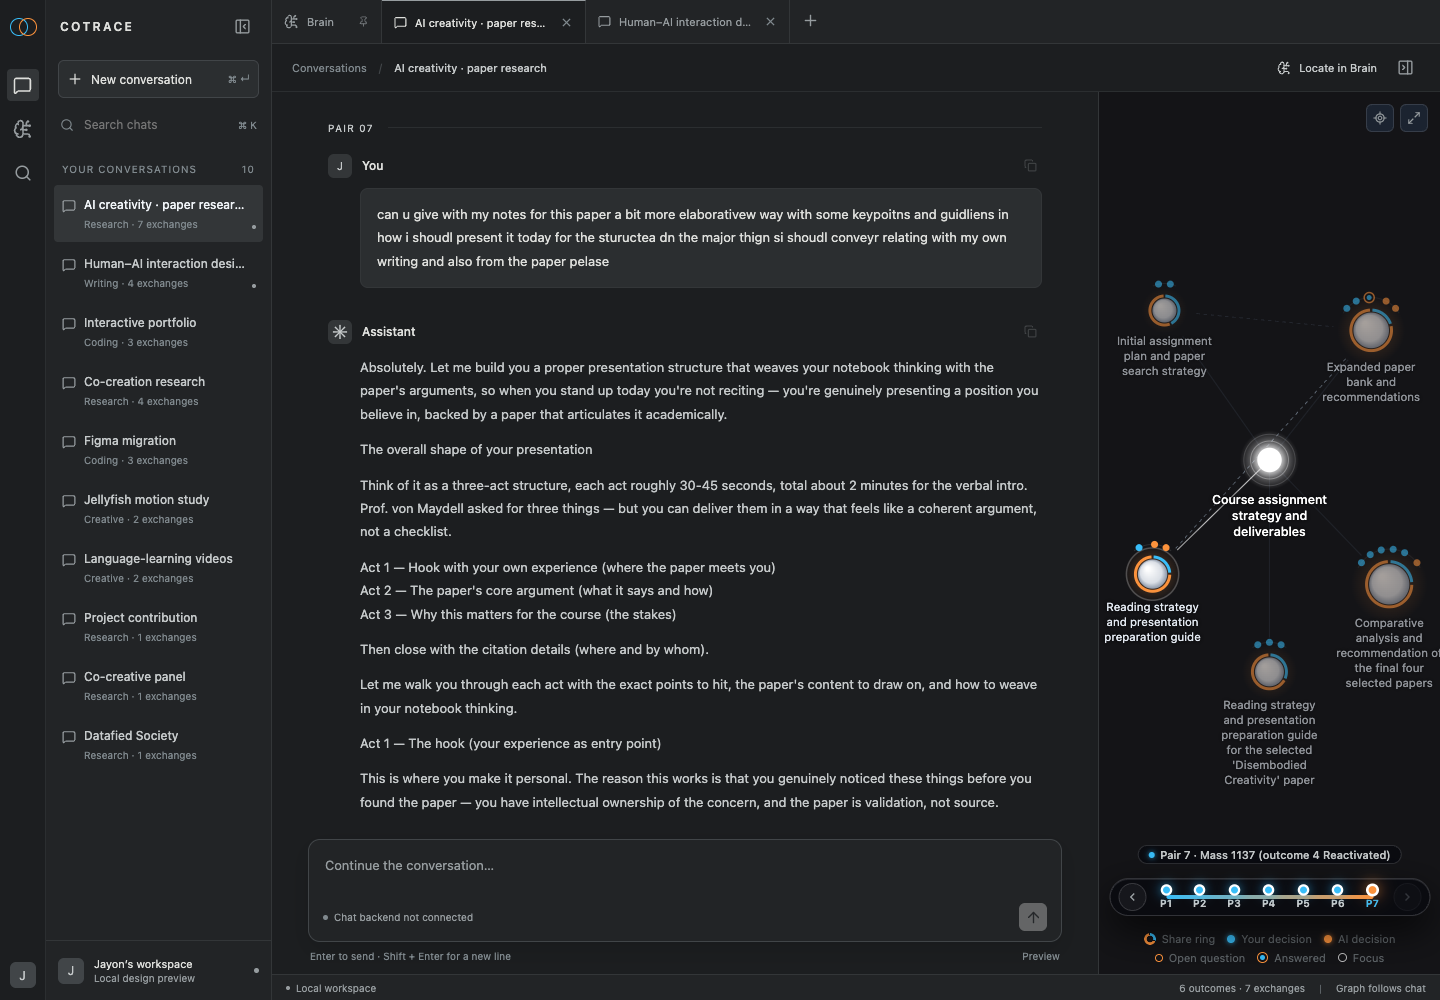
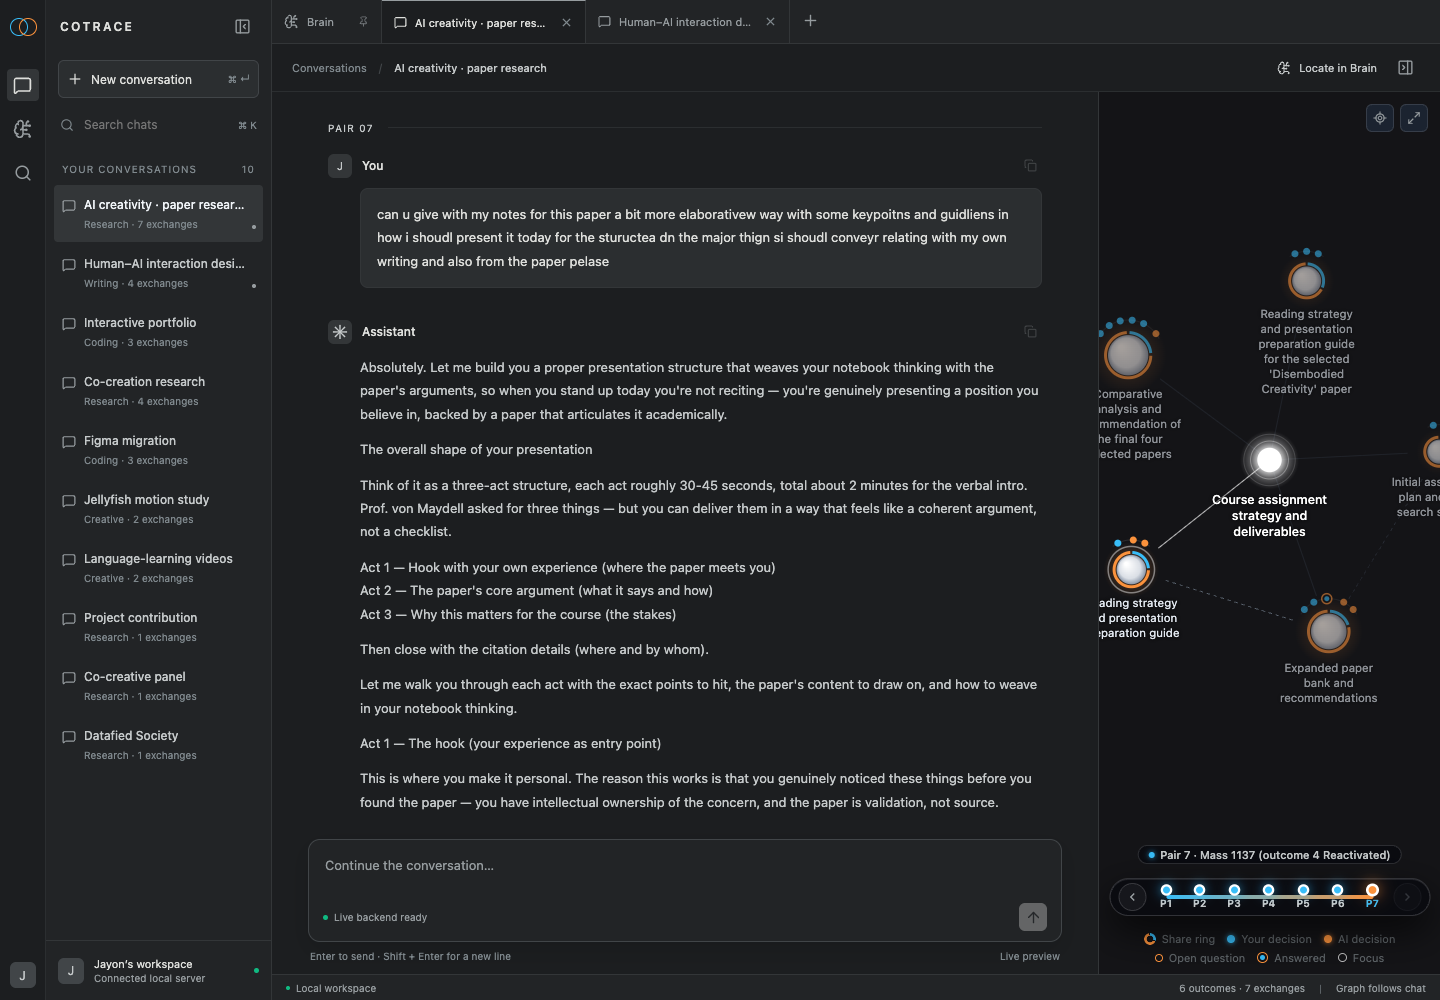
S2.6: point e2e tests at server URL — automated verification against live FastAPI backend

diff --git a/scripts/seed_library.py b/scripts/seed_library.py
@@ -12,8 +12,10 @@ from __future__ import annotations
 import argparse
 import json
 import logging
+import os
 import shutil
 import sys
+import time
 from pathlib import Path
 from typing import Any
 
@@ -148,6 +150,17 @@ def seed_library(
         atomic_write_json(meta_path, meta)
 
         seeded_ids.append(cid)
+
+    # Ensure descending modification timestamps so Library.list_chats()
+    # sorts in canonical reference order (PROCESSED_CHATS[0] is newest).
+    base_mtime = time.time()
+    for idx, cid in enumerate(PROCESSED_CHATS):
+        cdir = lib.chat_dir(cid)
+        if cdir.is_dir():
+            target_time = base_mtime - idx * 10
+            for item in [cdir, cdir / "workspace_bundle.json", cdir / "meta.json"]:
+                if item.exists():
+                    os.utime(item, (target_time, target_time))
 
     return seeded_ids
 

diff --git a/BUILDLOG.md b/BUILDLOG.md
@@ -1620,6 +1620,32 @@ Overall Status: ALL DOD CRITERIA MET (PHASES E0 & E1)
   - `git diff data/chats/fixture_pair1/`: 0 diffs (frozen fixture untouched).
 - **Next:** S2.6 — Point `npm run e2e` at the server URL (`WORKSPACE_URL=http://localhost:8765`) (AG).
 
+---
+
+## 2026-10-09 20:42 · Antigravity · Gemini 3.8 Flash
+- **Phase/Step:** S2.6 — Point `npm run e2e` at the server URL (AG)
+- **Did:**
+  - `scripts/seed_library.py` — added descending modification timestamp assignment across seeded reference chats:
+    - Guarantees `Library.list_chats()` sorts in canonical reference order (`c05_research_medium` newest, `c04_writing_short` second, etc.).
+  - `scripts/workspace-tests/refinement.cjs` — updated line 2 to support `process.env.WORKSPACE_URL`, falling back to `file://...web/cotrace-workspace.html`.
+  - `scripts/workspace-tests/run-e2e.cjs` — created standalone E2E orchestrator:
+    - Auto-seeds the reference library if missing.
+    - Checks if backend is active at `WORKSPACE_URL` (default `http://127.0.0.1:8765`), starts FastAPI backend process if needed, and polls `/api/health` until ready.
+    - Executes `smoke.cjs` and `refinement.cjs` against `http://127.0.0.1:8765/`.
+    - Handles graceful termination and server cleanup on exit or error.
+  - `package.json` — updated `e2e` script to run `npm run build:workspace && node scripts/workspace-tests/run-e2e.cjs`.
+  - `docs/plans/STANDALONE_V1_PLAN.md` — marked S2.6 complete (✅).
+- **Decisions made:**
+  - Ensured `run-e2e.cjs` works seamlessly both when a server is already running (reusing it) and in standalone CI runs (auto-starting and auto-stopping the FastAPI server).
+  - Verified AG+ sacred fixture numbers: Δ_you=87.0, Δ_AI=314.0 (21.7% / 78.3%), 4 You · 10 AI, COPILOT; 0 diffs on frozen fixture.
+- **Spec contradictions/gaps flagged:** none.
+- **Verification:**
+  - `npm run e2e`: 2/2 suites passed (`smoke.cjs` and `refinement.cjs`) against `http://127.0.0.1:8765` with 0 assertion failures and 0 page/console errors.
+  - `.venv/bin/python -m pytest -q`: 211 passed in 2.33s (baseline 102 intact).
+  - `git diff data/chats/fixture_pair1/`: 0 diffs (frozen fixture untouched).
+- **Next:** S2.7 — `scripts/perf_report.py`: §6A performance metrics (first load, chat open, Brain fps, API latency) -> `docs/plans/reports/S2_perf.md` (AG).
+
+
 
 
 

diff --git a/docs/plans/STANDALONE_V1_PLAN.md b/docs/plans/STANDALONE_V1_PLAN.md
@@ -209,7 +209,7 @@ Goal: the workspace you have today, served by the server from the library. It lo
 | S2.3 ✅ | AG | `scripts/seed_library.py`: copy the 10 processed chats into the library and project their bundles. No LLM | library has 10 chats; `GET /chats` returns them |
 | S2.4 ✅ | AG | Frontend data layer `web/src/workspace/api.ts`: the store loads the list from `/api/chats` and each bundle when its tab opens, and keeps the event stream open. `?offline=1` uses the bundled sample. Add loading, empty and error states | the workspace looks the same as the prototype, with data from the server |
 | S2.5 ✅ | AG | Serve `web/dist-workspace` from FastAPI at `/`; `./cotrace start` (builds if stale, starts on 8765, opens the browser); `./cotrace dev` (Vite + server with a proxy) | one command → working app |
-| S2.6 | AG | Point `npm run e2e` at the server URL; all existing assertions pass | e2e green against the server |
+| S2.6 ✅ | AG | Point `npm run e2e` at the server URL; all existing assertions pass | e2e green against the server |
 | S2.7 | AG | `scripts/perf_report.py`: the §6A performance metrics for the app (first load, chat open, Brain fps, API latency) → `docs/plans/reports/S2_perf.md` | report generated and committed |
 | **S2.T** | You | **Owner test:** run `./cotrace start` yourself, open 5 chats, scrub, use the Brain, delete and restore one chat | log entry written |
 | **S2.G** | You | Screenshot check against `docs/workspace/*.png`: same screens, real data path | — |
